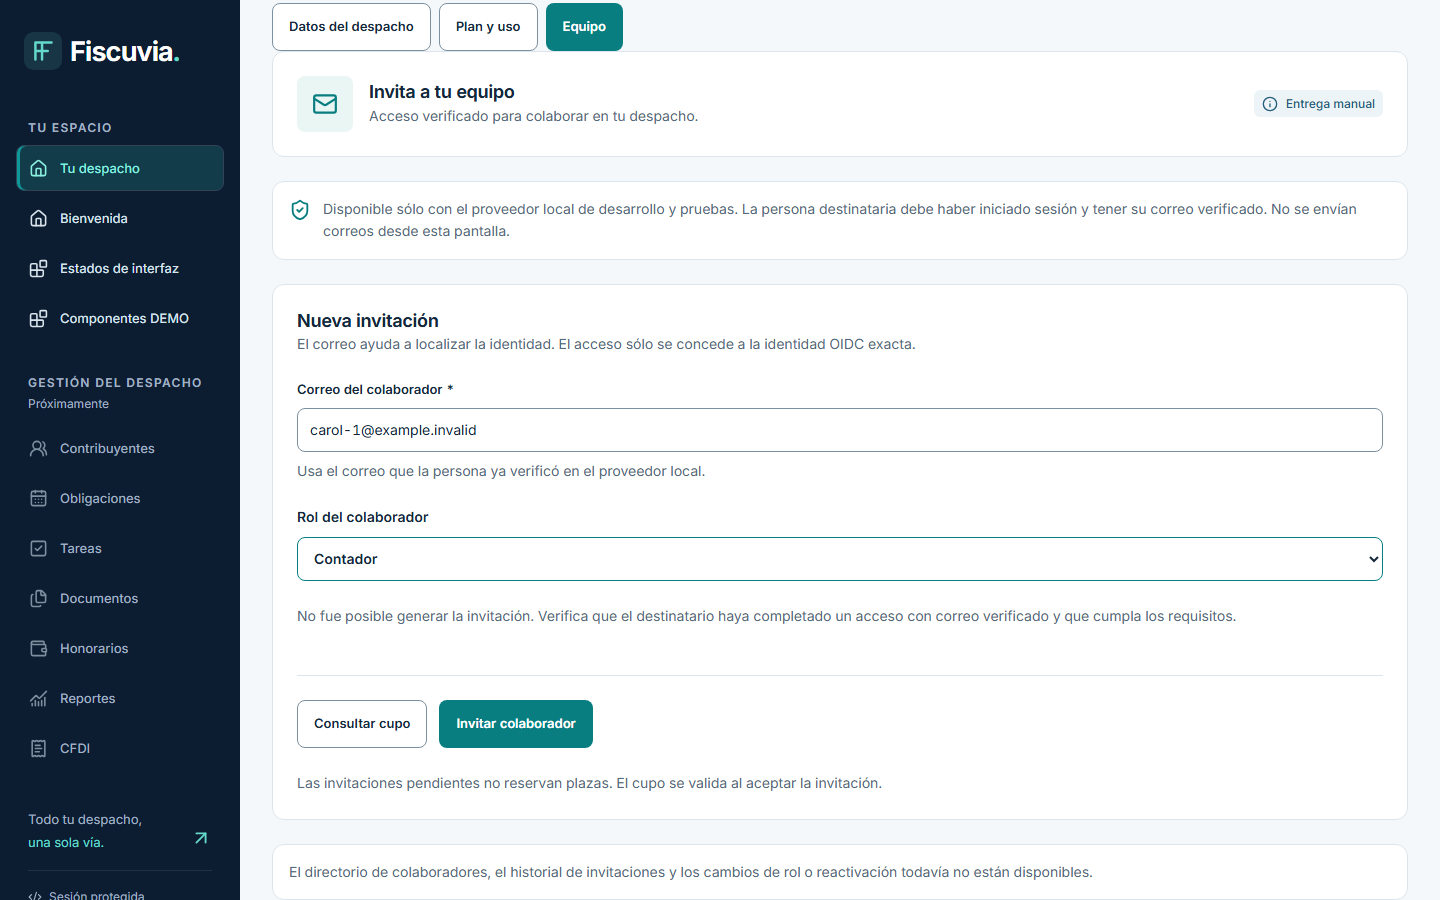
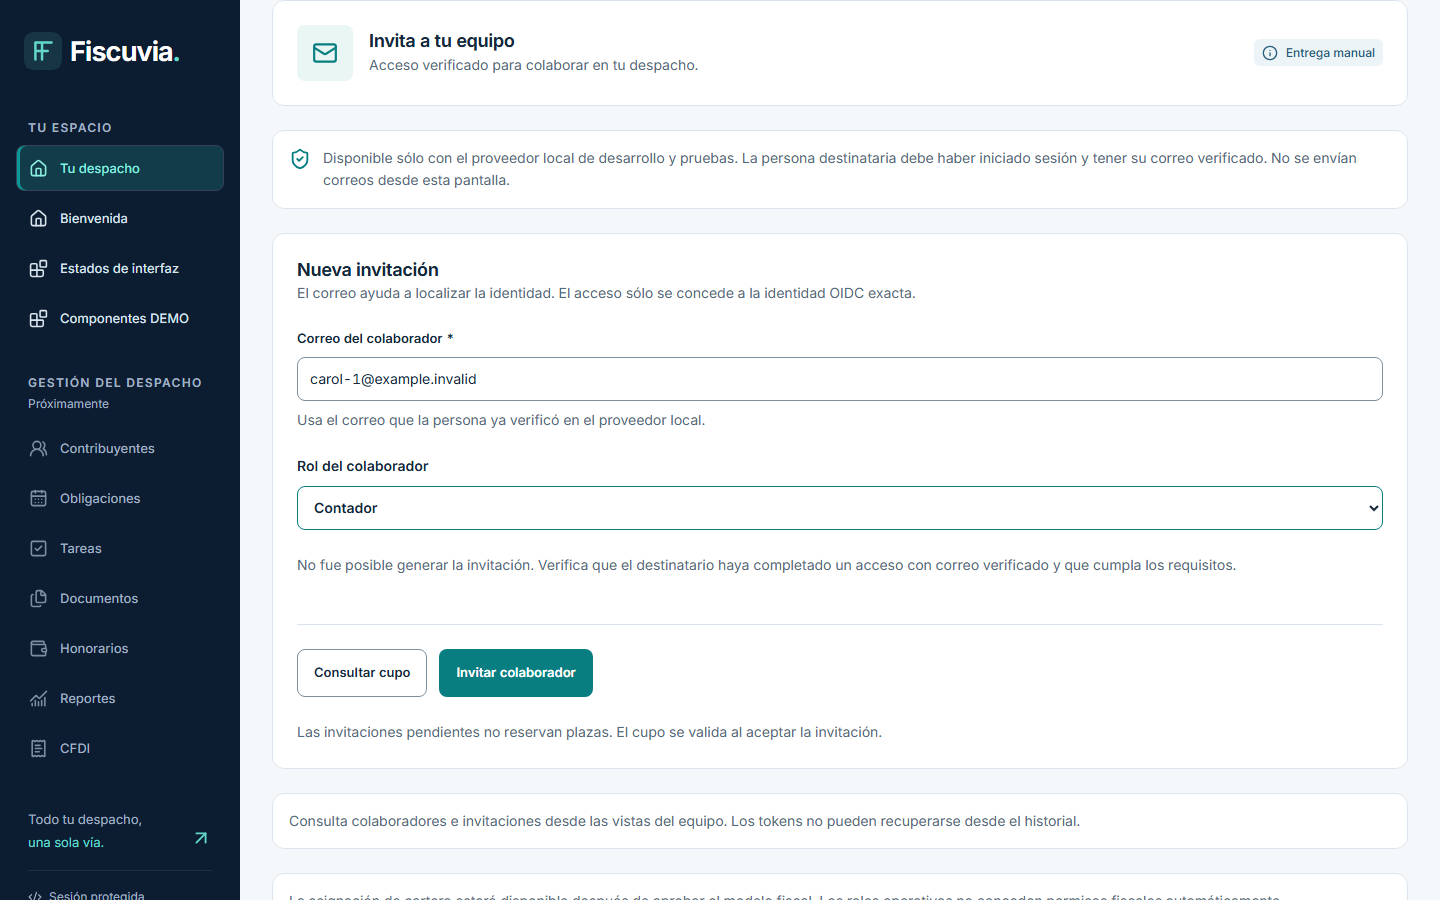
docs(ux): record verified team administration browser evidence

diff --git a/docs/ux/evidence/issue-33/README.md b/docs/ux/evidence/issue-33/README.md
@@ -1,4 +1,4 @@
-# Evidencia real #33: invitaciones de correo local/test
+# Evidencia real #33: equipo e invitaciones de correo local/test
 
 Alcance A aprobado y correo B local/test: [flujo y controles](../../../security/LOCAL-EMAIL-INVITATIONS-33.md). El directorio, reactivación y cambios operativos de rol ya tienen aprobación limitada del propietario y se implementan en V11; cartera conserva #74. No existe entrega externa de correo ni cartera simulada. [Administración y controles](../../../security/TEAM-ADMINISTRATION-33.md).
 
@@ -37,3 +37,20 @@ Revisión visual: jerarquía legible, campos y acciones alineados, mensajes ES-M
 Las mutaciones y el error de cuota son HTTP reales con PostgreSQL/Keycloak; el error recuperable de transporte se induce abortando una única solicitud del navegador y se reintenta luego contra el backend real. No se simula autorización ni éxito. El rol actualizado se comprueba también en /me del destinatario; suspensión/revocación/revocación de invitación se comprueban mediante HTTP denegado al receptor. Cambio de despacho elimina contactos anteriores y un UUID conocido del otro despacho devuelve404.
 
 El escenario administrativo revisa además1280,768 y320 CSS px mediante axe y overflow. Panel y confirmaciones mantienen estado al cambiar de ancho; el foco vuelve a Colaboradores al cerrar. El concepto escrito #52 es la referencia; no se afirma pixel-diff contra una imagen ausente ni certificación completa de WCAG.
+
+## Capturas A verificadas
+
+| Estado | Escritorio | Móvil |
+|---|---|---|
+| Directorio | [1440×900](equipo-colaboradores-1440.png) | [390×844](equipo-colaboradores-390.png) |
+| Cambio de rol | [1440×900](equipo-cambio-rol-1440.png) | [390×844](equipo-cambio-rol-390.png) |
+| Confirmación | [1440×900](equipo-confirmacion-1440.png) | [390×844](equipo-confirmacion-390.png) |
+| Suspendido | [1440×900](equipo-suspendido-1440.png) | [390×844](equipo-suspendido-390.png) |
+| Revocado | [1440×900](equipo-revocado-1440.png) | [390×844](equipo-revocado-390.png) |
+| Otro despacho | [1440×900](equipo-otro-despacho-1440.png) | [390×844](equipo-otro-despacho-390.png) |
+| Cuota agotada | [1440×900](equipo-sin-cupo-1440.png) | [390×844](equipo-sin-cupo-390.png) |
+| Invitaciones | [1440×900](equipo-invitaciones-1440.png) | [390×844](equipo-invitaciones-390.png) |
+| Vacío | [1440×900](equipo-vacio-1440.png) | [390×844](equipo-vacio-390.png) |
+| Error recuperable | [1440×900](equipo-error-recuperable-1440.png) | [390×844](equipo-error-recuperable-390.png) |
+
+Las 30 imágenes de la ejecución completa de 20 pruebas OIDC aprobadas se verificaron por dimensiones PNG, SHA256 y trees Git del manifiesto. Se revisaron visualmente directorio, panel, confirmación, cuota, invitaciones, vacío y error. Axe registra cero violaciones y no hay overflow horizontal en cada captura. El vacío y error se capturan después de cerrar notificaciones anteriores; no se altera la respuesta ni el estado del backend.

diff --git a/docs/ux/screen-inventory.md b/docs/ux/screen-inventory.md
@@ -1,5 +1,7 @@
 # Inventario de rutas, pantallas y estados UX — propuesta v0.1
 
+**Enmienda efectiva #33 (prevalece sobre notas históricas de implementación):** `/app` → Equipo es una vista real dentro del workspace autorizado, no la ruta propuesta `/app/settings/members`. Colaboradores e invitaciones paginadas, filtros, panel lateral y comandos confirmados, exclusivamente owner ACTIVE con MFA reciente según A aprobada. [Controles](../security/TEAM-ADMINISTRATION-33.md) y [capturas](evidence/issue-33/README.md). Correo local/test; cartera #74, matriz fiscal y proveedor productivo pendientes. Las filas de planeación siguientes no conceden permisos a manager, AUDIT_VIEW ni funcionalidades fiscales.
+
 **Estado actual #52 (prevalece sobre la enmienda histórica #19):** OQ-021 Resolved para implementación visual, Dagt opción B 2026-11-03. Se añade `/desarrollo/componentes`, catálogo público DEMO sin APIs; `/app` comparte AppShell tras verificar identidad/membresías. [Contratos efectivos](DESIGN-SYSTEM-52.md), [capturas/comparación](evidence/issue-52/README.md). Las demás rutas de negocio siguen propuestas; no se autorizan capacidades ni nombres comerciales de #31.
 
 **Propósito:** evitar replicar el problema de TrailerSaaS de mejorar UX después de la construcción. Ruta marcada Future no se debe simular como funcional.
